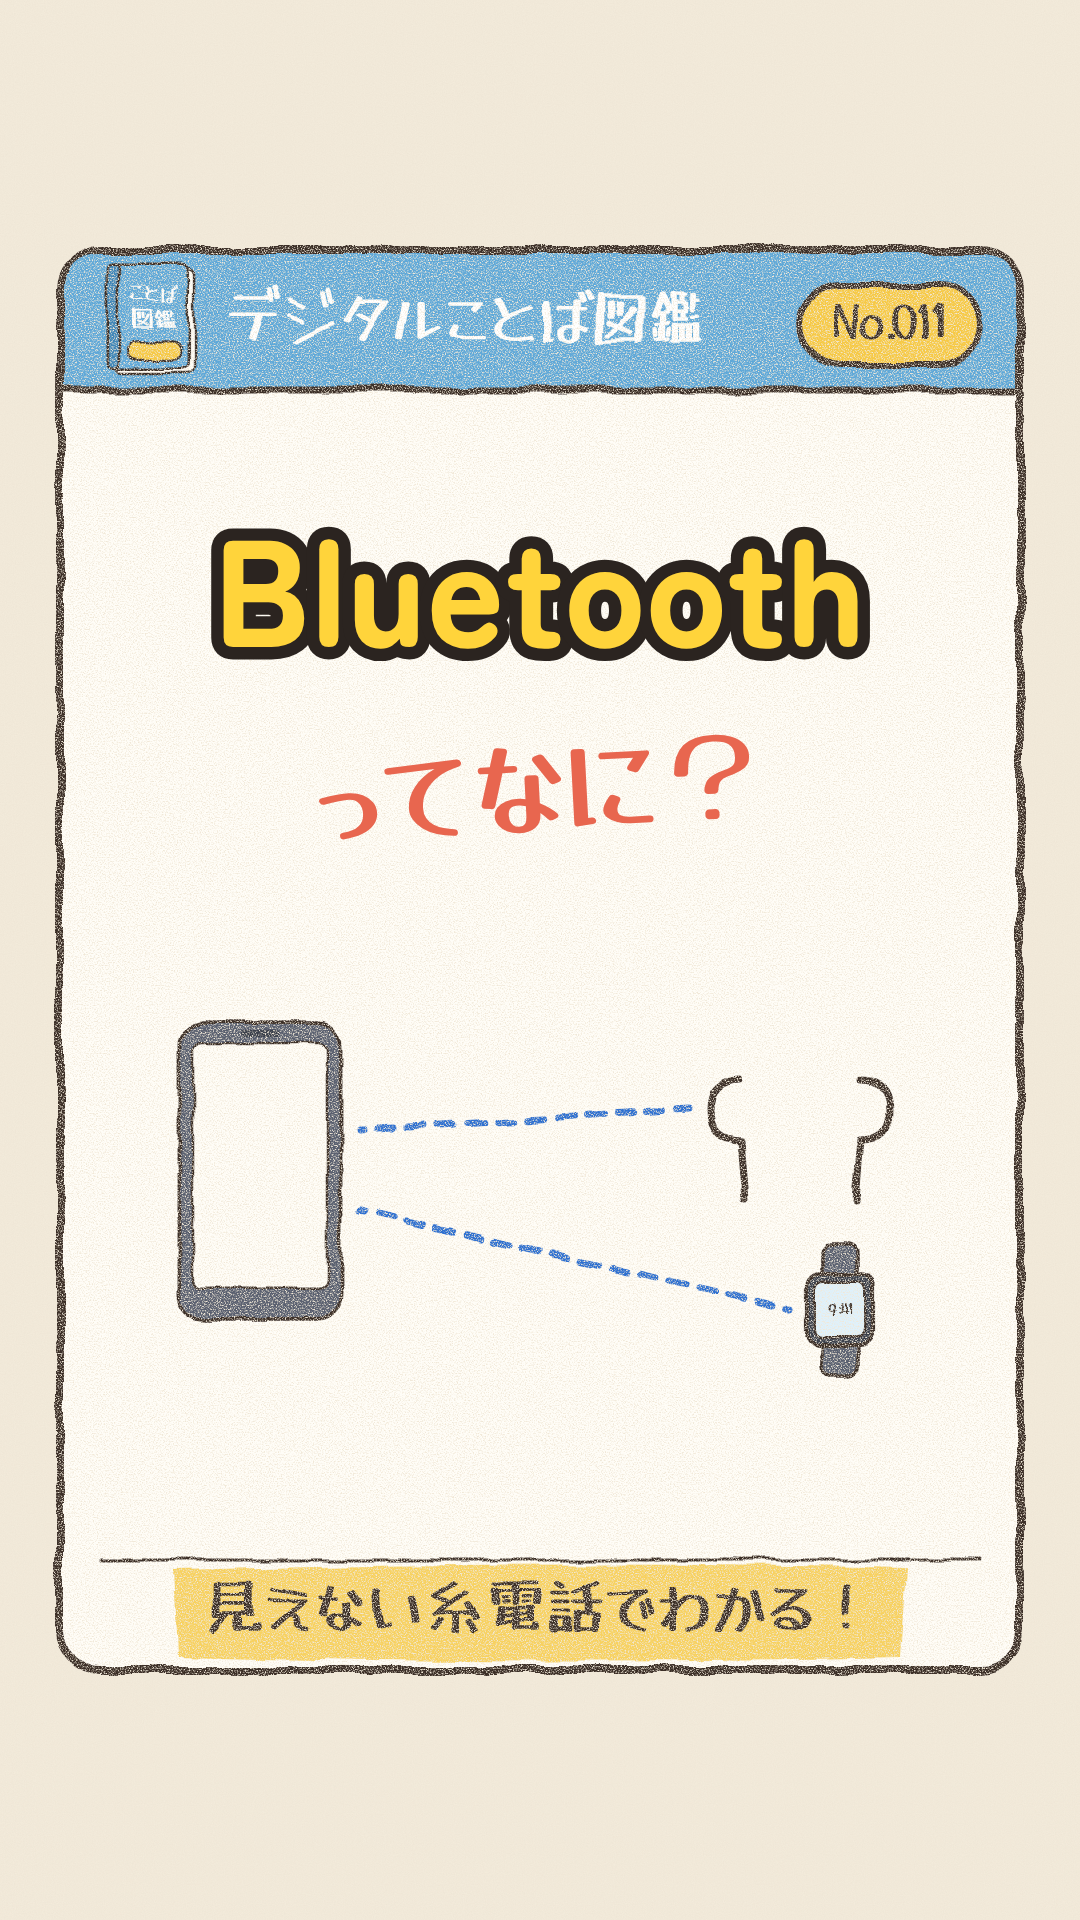
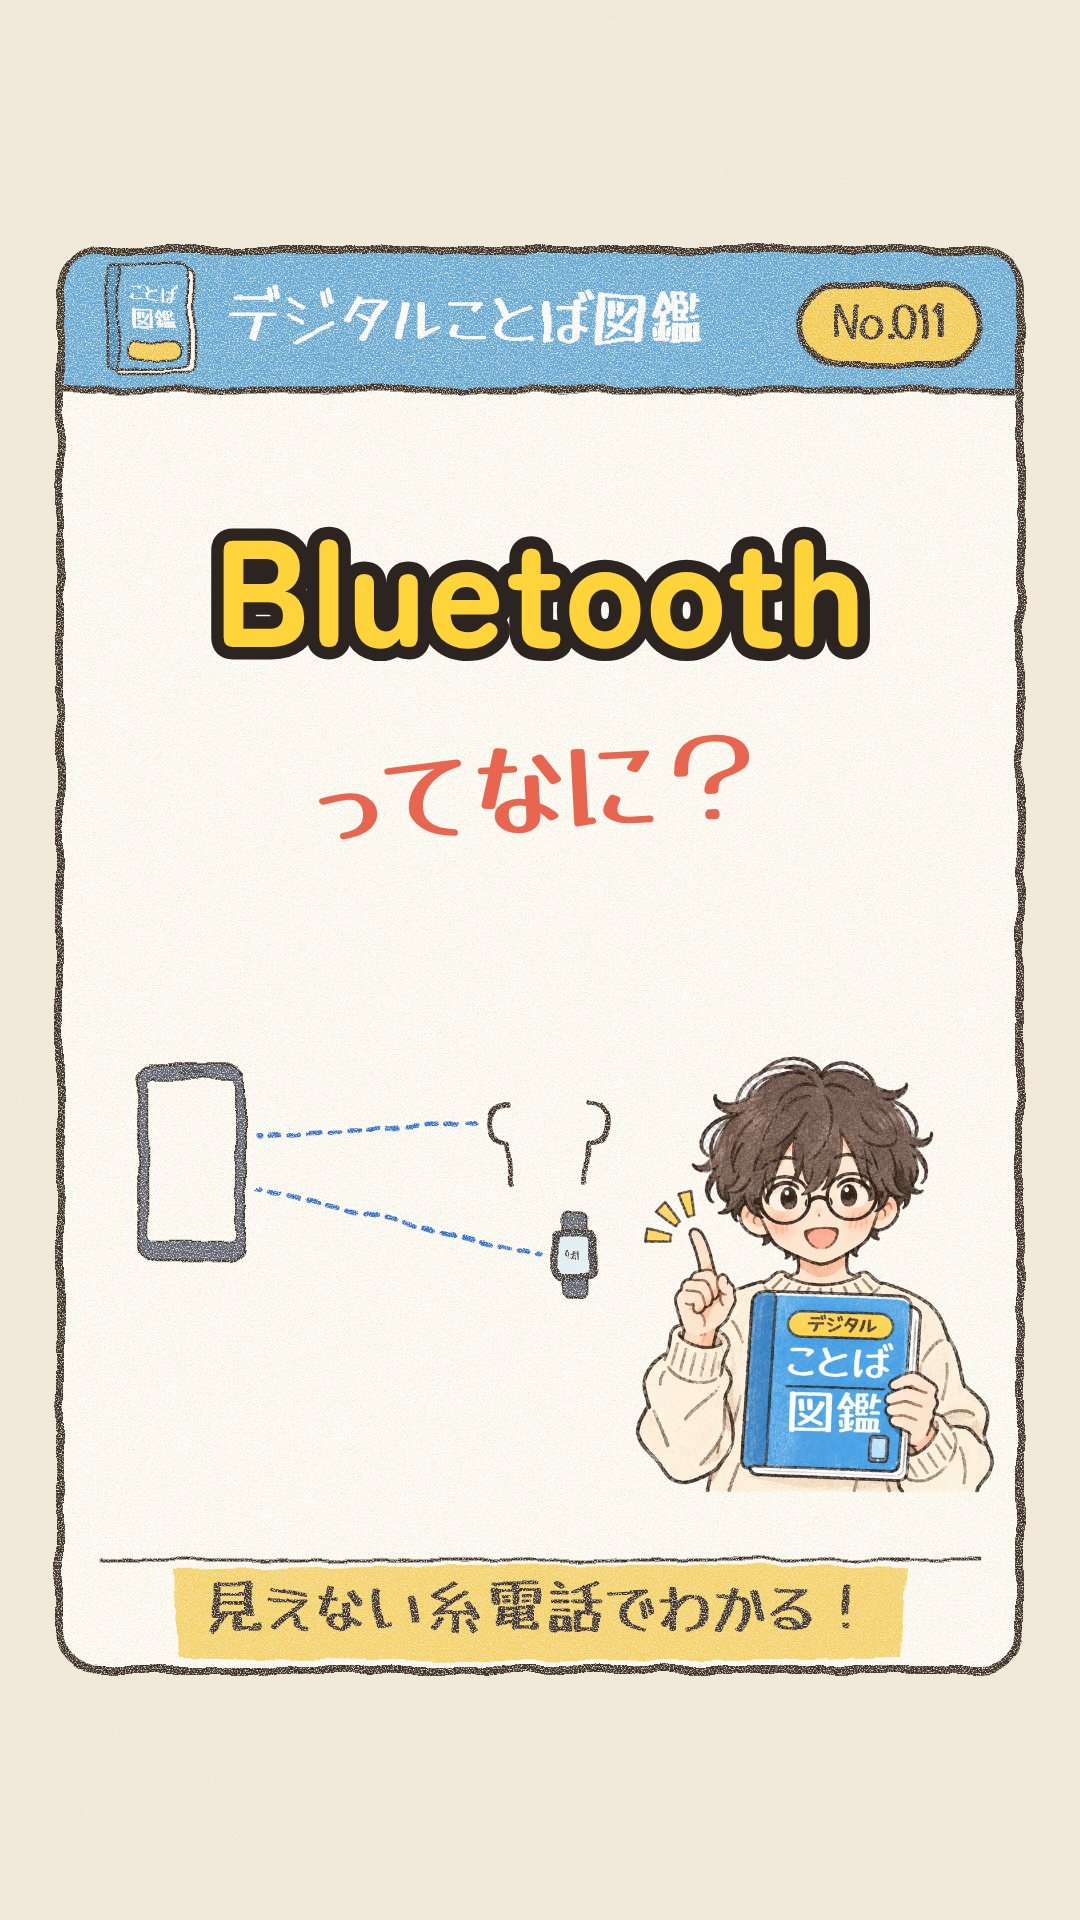
Add host character (pointing pose) to thumbnails No.011-013
Claude-Session: https://claude.ai/code/session_01L8xEAAvehPoVRzwPzYE6cr

diff --git a/brand/thumb.html b/brand/thumb.html
@@ -21,9 +21,9 @@ const THUMBS = {
   '008': { title: '{y:アップデート}', question: '「あとで」で大丈夫？', answer: '防犯リフォームでわかる！', art: 'upd8' },
   '009': { titleSize: 120, title: '{r:フィッシング}\n{r:詐欺}', question: '見分け方は？', answer: 'ニセのエサでわかる！', art: 'fish9' },
   '010': { title: '{c:VPN}', question: '何のためにある？', answer: '秘密のトンネルでわかる！', art: 'vpn10' },
-  '011': { title: '{y:Bluetooth}', question: 'ってなに？', answer: '見えない糸電話でわかる！', art: 'bt11' },
-  '012': { title: '{y:QRコード}', question: '読む前に知ってる？', answer: '四角い住所メモでわかる！', art: 'qr12' },
-  '013': { title: '{r:情報漏洩}', question: '自分には関係ない？', answer: '漏れても困らない対策！', art: 'leak13' },
+  '011': { host: true, title: '{y:Bluetooth}', question: 'ってなに？', answer: '見えない糸電話でわかる！', art: 'bt11' },
+  '012': { host: true, title: '{y:QRコード}', question: '読む前に知ってる？', answer: '四角い住所メモでわかる！', art: 'qr12' },
+  '013': { host: true, title: '{r:情報漏洩}', question: '自分には関係ない？', answer: '漏れても困らない対策！', art: 'leak13' },
   '005': { titleSize: 128, title: '{c:Wi-Fi}と\n{y:モバイル通信}', question: 'なにが違う？', answer: '水道と水筒でわかる！', art: 'wifi' },
 };
 
@@ -89,15 +89,16 @@ function thumb(no) {
     zukanBook(150, 375, 0.42, '') +
     `<text x="225" y="325" font-family="Yusei Magic" font-size="58" fill="#fff" dominant-baseline="middle">デジタルことば図鑑</text>` +
     rect(800, 285, 180, 80, C.yellow, 40, 6) + hand(890, 327, 'No.' + no, 46) +
-    // 絵
-    g('translate(0 1090)', ART[d.art]()) +
+    // 絵（案内役つきの回は左に小さく寄せる）
+    (d.host ? g("translate(20 1110) scale(0.66)", ART[d.art]()) : g('translate(0 1090)', ART[d.art]())) +
     // たとえの帯
     marker(540, 1612, Math.max(640, [...d.answer].length * 56 + 60), 92, C.yellow) + hand(540, 1614, d.answer, Math.min(60, 760 / [...d.answer].length));
   const lines = d.title.split('\n').length;
   const overlay =
     captionSVG(d.title, 540, lines > 1 ? 640 : 610, lines > 1 ? (d.titleSize || 150) : 190, 0, 10, { maxW: 860 }) +
     g(`translate(540 ${lines > 1 ? 880 : 800}) rotate(-3)`, hand(0, 0, d.question, Math.min(110, 840 / [...d.question].length), C.red));
-  return frameSVG(0, ill, overlay).replace(/<rect x="0" y="1906"[^>]*\/>/, '');
+  const hostImg = d.host ? `<image href="../video/assets/host/host_point.png" x="590" y="1050" width="450" height="450"/>` : '';
+  return frameSVG(0, ill, overlay + hostImg).replace(/<rect x="0" y="1906"[^>]*\/>/, '');
 }
 window.show = (no) => { document.getElementById('s').innerHTML = thumb(no); };
 window.prep = async () => {

diff --git a/brand/render_thumbs.js b/brand/render_thumbs.js
@@ -10,6 +10,7 @@ const { chromium } = require('playwright');
   await p.evaluate(() => prep());
   for (const no of nos) {
     await p.evaluate((n) => show(n), no);
+    await p.waitForTimeout(600);
     await p.screenshot({ path: path.join(__dirname, 'thumbs', `thumb_${no}.png`) });
   }
   await b.close();
